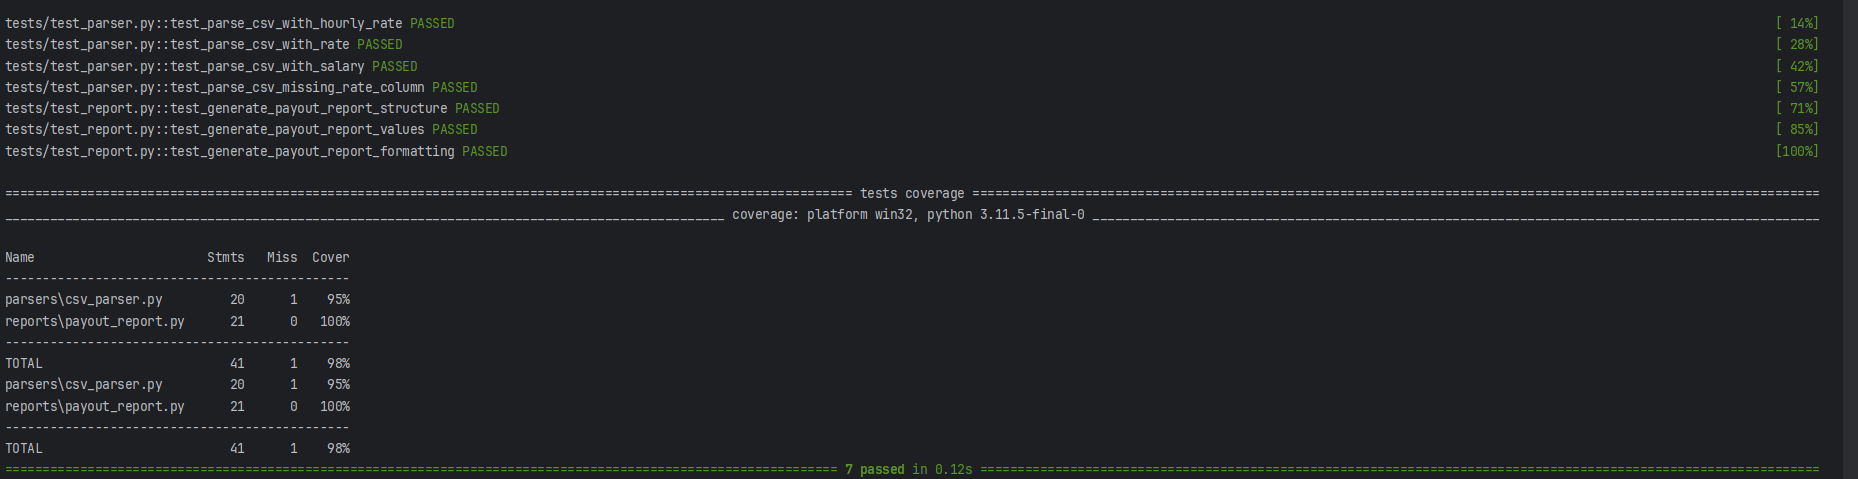
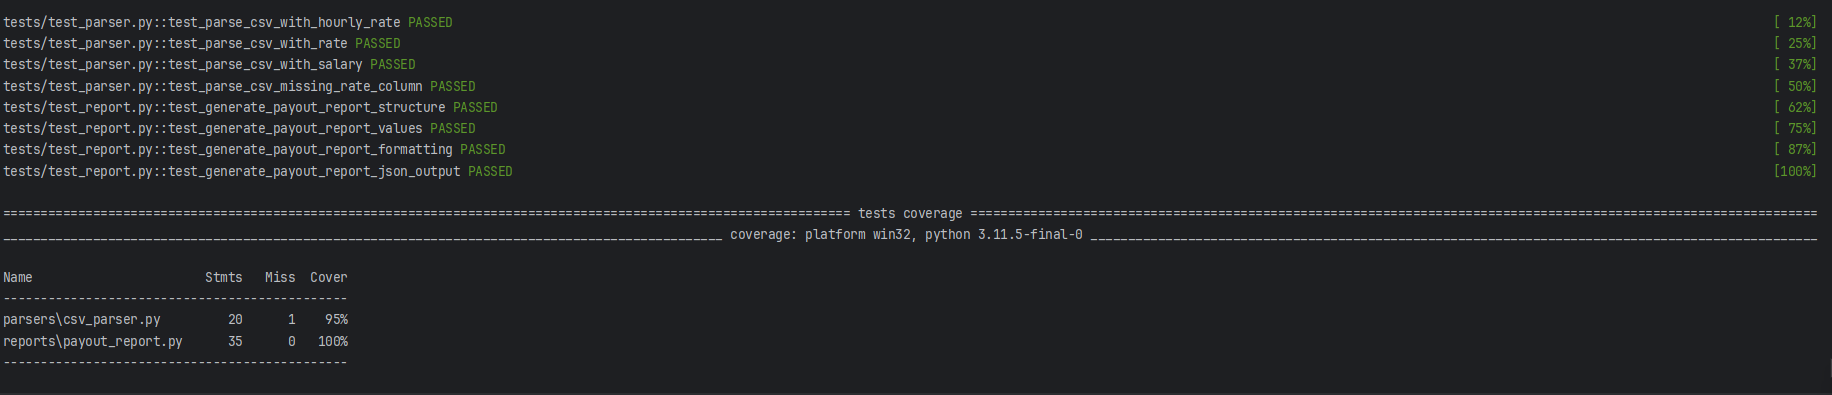
feat(report): add JSON output support for payout report with tests

diff --git a/reports/payout_report.py b/reports/payout_report.py
@@ -1,16 +1,44 @@
+import json
 from collections import defaultdict
 from typing import List
 
 from models.employee import Employee
 
 
-def generate_payout_report(employees : List[Employee]):
+def generate_payout_report(employees : List[Employee],  format: str = "table") -> str:
     departments = defaultdict(list)
     for emp in employees:
         departments[emp.department].append(emp)
 
     lines = []
+
+    if format == "json":
+        result = {}
+        for department, emps in departments.items():
+            emp_list = []
+            total_payout = 0
+            total_hours = 0
+            for emp in emps:
+                payout = emp.hours_worked * emp.hourly_rate
+                total_hours += emp.hours_worked
+                total_payout += payout
+                emp_list.append({
+                    "name": emp.name,
+                    "hours_worked": int(emp.hours_worked),
+                    "hourly_rate": emp.hourly_rate,
+                    "payout": int(payout)
+                })
+            result[department] = {
+                "employees": emp_list,
+                "total_hours_worked": int(total_hours),
+                "total_payout": int(total_payout)
+            }
+        return json.dumps(result, indent=4, ensure_ascii=False)
+
+
+
     for department, emps in departments.items():
+
         lines.append(f"{department}")
         lines.append(" " * 16 + " name              hours  rate   payout")
         total_payout = 0

diff --git a/tests/test_report.py b/tests/test_report.py
@@ -1,3 +1,5 @@
+import json
+
 import pytest
 from typing import List
 from models.employee import Employee
@@ -41,3 +43,19 @@ def test_generate_payout_report_formatting():
     assert "Miyu Sato" in report
     assert "$2500" in report
     assert "$2500" in report.splitlines()[-2]  # Total payout
+
+def test_generate_payout_report_json_output():
+    employees = [
+        Employee(name="Yuna Kim", department="Marketing", hours_worked=160, hourly_rate=50),
+        Employee(name="Haruka Tanaka", department="Marketing", hours_worked=150, hourly_rate=40)
+    ]
+
+    output = generate_payout_report(employees, format="json")
+    data = json.loads(output)
+
+    assert "Marketing" in data
+    assert "employees" in data["Marketing"]
+    assert "total_payout" in data["Marketing"]
+    assert data["Marketing"]["total_payout"] == 8000 + 6000
+    assert any(emp["name"] == "Yuna Kim" for emp in data["Marketing"]["employees"])
+    assert any(emp["name"] == "Haruka Tanaka" for emp in data["Marketing"]["employees"])

diff --git a/main.py b/main.py
@@ -19,6 +19,13 @@ def main():
         choices=["payout"],
         help="Report type (for example, payment)")
 
+    parser.add_argument(
+        "--format",
+        choices=["table", "json"],
+        default="table",
+        help="Output format of the report"
+    )
+
     args = parser.parse_args()
 
     employees = []
@@ -27,7 +34,8 @@ def main():
 
     if args.report == "payout":
         report = generate_payout_report(
-            employees=employees
+            employees=employees,
+            format=args.format
         )
         print(report)
     else:
